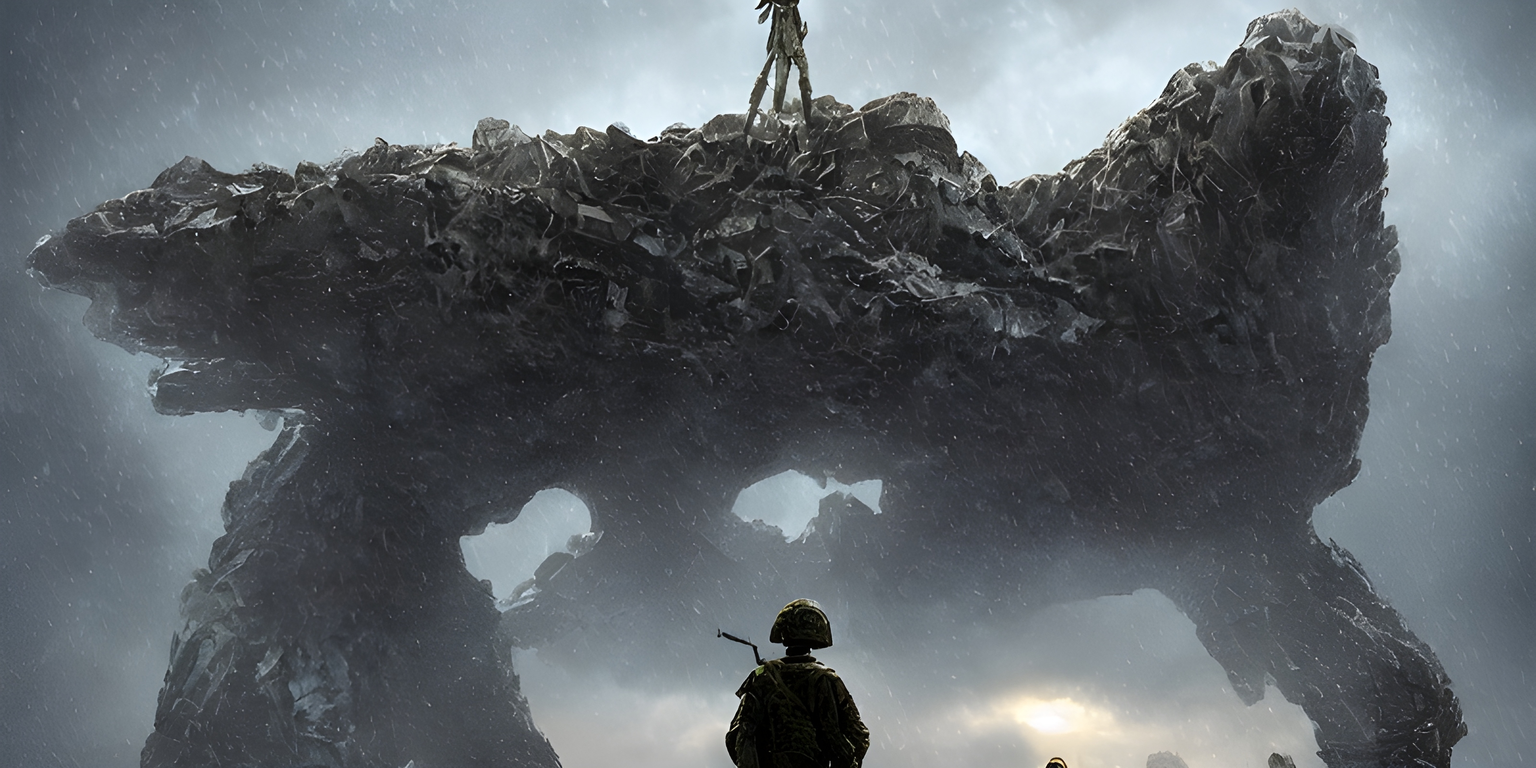
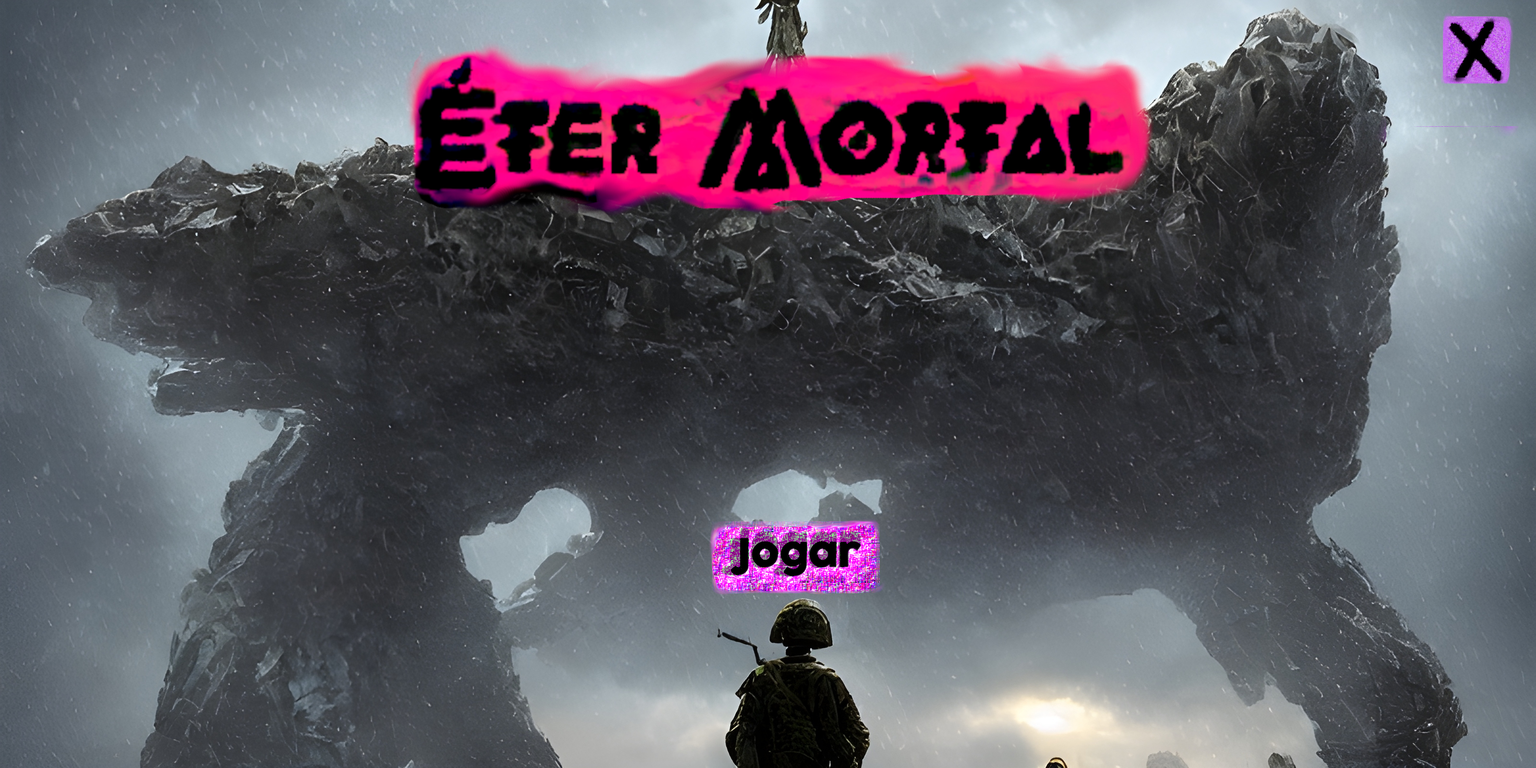
Melhorar menu principal visualmente

Changed region(s): [[0.25, 0.0625, 0.75, 0.2812], [0.4375, 0.6562, 0.5938, 0.7812], [0.9375, 0.0, 1.0, 0.125]]

diff --git a/versao_final/menu.py b/versao_final/menu.py
@@ -1,36 +1,34 @@
-import pygame
 import os
+
+import pygame
+
 from arma import Arma
-from projetil_linear import ProjetilLinear
 from button import Button
 from capacete_militar import CapaceteMilitar
-from math import sin, cos, pi, radians
-
-
-
-
+from projetil_linear import ProjetilLinear
 
 
 class Menu:
     def __init__(self):
+        background_img = pygame.image.load(os.path.join('imagens', 'background_menu.jpg'))
+        self.__background = pygame.transform.scale(background_img, (1024, 576))
+
         self.__tela = pygame.display.get_surface()
-        self.__background_color = (0, 255, 255)
         self.__width = self.__tela.get_width()
         self.__height = self.__tela.get_height()
         self.iniciar_jogo = False
-        self.__start_button = Button((0, 0, 0), self.__width/2 - 40, self.__height/2 + 150, 100, 40, 'Start')
-        self.__titulo_button = Button((0, 0, 0), self.__width/2 - 150, self.__height/2 - 270, 0, 0, "Éter Mortal", fontsize = 90)
-        self.__quit_button = Button((0,0,0), self.__width/2 + 470, self.__height/2 - 280, 50, 40, "X")
-        self.__capacete_button = Button((0, 0, 0), self.__width/2 - 360 , self.__height/2 - 155, 0, 0, 'Capacete', fontsize = 40)
+        self.__start_button = Button((0, 0, 0), self.__width/2 - 37, self.__height/2 + 100, 112, 60, ' ', 40, False)
+        self.__quit_button = Button((0,0,0), self.__width/2 + 450, self.__height/2 - 275, 50, 50, " ", 40, False)
+        self.__capacete_button = Button((0, 0, 0), self.__width/2 - 360 , self.__height/2 - 155, 0, 0, 'Capacete', 40, False)
         self.__triangulo_D = pygame.transform.scale(pygame.image.load(os.path.join('imagens', 'triangulo.png')).convert(), (40, 40))
         self.__triangulo_E = pygame.transform.scale(pygame.image.load(os.path.join('imagens', 'triangulo.png')).convert(), (40, 40))
-        self.__button_triangulo_D_capacete = Button((200, 200, 200), 290 , 180, 40, 40, ' ', fontsize = 40)
-        self.__button_triangulo_E_capacete = Button((200, 200, 200), 100, 180, 40, 40, ' ', fontsize = 40)
-        self.__button_triangulo_D_arma = Button((200, 200, 200), 290, 400, 40, 40, ' ', fontsize = 40)
-        self.__button_triangulo_E_arma = Button((200, 200, 200), 100 , 400, 40, 40, ' ', fontsize = 40)
-        self.__button_triangulo_D_mapa = Button((200, 200, 200), 920, 290, 40, 40, ' ', fontsize = 40)
-        self.__button_triangulo_E_mapa = Button((200, 200, 200), 730, 290, 40, 40, ' ', fontsize = 40)
-        self.__arma_button = Button((0, 0, 0), self.__width/2 - 330 , self.__height/2 + 70, 0, 0, 'Arma', fontsize = 40)
+        self.__button_triangulo_D_capacete = Button((200, 200, 200), 290 , 180, 40, 40, ' ', 40, False)
+        self.__button_triangulo_E_capacete = Button((200, 200, 200), 100, 180, 40, 40, ' ', 40, False)
+        self.__button_triangulo_D_arma = Button((200, 200, 200), 290, 400, 40, 40, ' ', 40, False)
+        self.__button_triangulo_E_arma = Button((200, 200, 200), 100 , 400, 40, 40, ' ', 40, False)
+        self.__button_triangulo_D_mapa = Button((200, 200, 200), 920, 290, 40, 40, ' ', 40, False)
+        self.__button_triangulo_E_mapa = Button((200, 200, 200), 730, 290, 40, 40, ' ', 40, False)
+        self.__arma_button = Button((0, 0, 0), self.__width/2 - 330 , self.__height/2 + 70, 0, 0, 'Arma', 40, False)
         rifle_proj = ProjetilLinear(15, 600, 2, (26, 255, 0), 1)
         rifle = Arma('Rifle', 'rifle.png', 1.2, rifle_proj)
         ak_proj = ProjetilLinear(6, 450, 3, (252, 255, 46), 1)
@@ -44,18 +42,13 @@ class Menu:
         self.__imagem_arma_index = 0
         self.__imagem_capacete_index = 0
         self.__imagem_mapa_index = 0
-        
-
-
-        
-
 
     def rodar(self):
-        self.__tela.fill(self.__background_color)
+        self.__tela.blit(self.__background, (0, 0))
+        #self.__tela.fill(self.__background_color)
         #background = pygame.image.load(os.path.join()))
         #self.__tela.blit(background, (0, 0))
         self.__start_button.draw(self.__tela)
-        self.__titulo_button.draw(self.__tela)
         self.__quit_button.draw(self.__tela)
         self.__capacete_button.draw(self.__tela)
         self.__arma_button.draw(self.__tela)
@@ -149,12 +142,3 @@ class Menu:
         else:
             self.__imagem_mapa_index -= 1
         print(self.__imagem_mapa_index)
-
-
-
-            
-        
-
-
-
-        

diff --git a/versao_final/button.py b/versao_final/button.py
@@ -1,8 +1,10 @@
-import pygame
 import time
 
+import pygame
+
+
 class Button:
-    def __init__(self, color, x,y,width,height, text='', fontsize = 60):
+    def __init__(self, color, x,y,width,height, text='', fontsize = 60, is_drawable = True):
         self.color = color
         self.x = x
         self.y = y
@@ -12,6 +14,7 @@ class Button:
         self.rect = None
         self.fontsize = fontsize
         self.clicked = False
+        self.is_drawable = is_drawable
 
         self.boolswitch = False
         self.timer = 0.0
@@ -25,7 +28,8 @@ class Button:
             font = pygame.font.SysFont('', self.fontsize)
             self.textfont = font.render(self.text, 1, (255, 255, 255))
             self.rect = self.textfont.get_rect()
-        pygame.draw.rect(win, self.color, (self.x,self.y,self.width,self.height),0)
+        if self.is_drawable:
+            pygame.draw.rect(win, self.color, (self.x,self.y,self.width,self.height),0)
         win.blit(self.textfont, (self.x, self.y))
         self.click()
 
@@ -49,4 +53,3 @@ class Button:
                     self.clicked = True
                     self.boolswitch = False
                     print('f')
-
